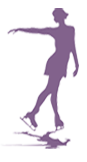
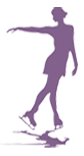
updates

diff --git a/public/stylesheets/main.css b/public/stylesheets/main.css
@@ -30,11 +30,13 @@ body {
 
 #header_container {
 	position: relative;
+	left: 0.3%;
+	top: 0.4%;
 	width: 100%;
-	height: 18%;
+	height: 20%;
 	background-color: blue;
-	/* background: url(../images/header_background.png); */
-	background-size: 100.45% 100%;
+	background: url(../images/header_background.png); 
+	background-size: 100% 100%;
 }
 
 #middle_container {
@@ -57,7 +59,8 @@ body {
 	position: relative;
 	border: 4px double black; 
 	top: 1%;
-	width: 98%;
+	left: 2.2%;
+	width: 95%;
 	height: 20%;
 }
 
@@ -66,13 +69,13 @@ body {
 	margin-left: 4%;
 	top: 1%;	
 	width: 95%;
-	height: 75%;
+	height: 49%;
 }
 
 .menu_item_container {
 	position: relative;
 	width: 100%;
-	height: 9%;
+	height: 12%;
 	margin-top: 4%;
 	background-color: #002d98;
 	border-radius: 30px; 
@@ -84,13 +87,34 @@ body {
 	margin-right: auto;
 	top: 6%;
 	width: 98%;
-	height: 88%;
+	height: 87%;
 	margin-top: 4%;
 	background: -webkit-linear-gradient(#ffffff, #d9c6d8, #b793b7, #a274a0); /* For Safari 5.1 to 6.0 */
   	background: -o-linear-gradient(#ffffff, #d9c6d8, #b793b7, #a274a0); /* For Opera 11.1 to 12.0 */
   	background: -moz-linear-gradient(#ffffff, #d9c6d8, #b793b7, #a274a0); /* For Firefox 3.6 to 15 */
   	background: linear-gradient(#ffffff, #d9c6d8, #b793b7, #a274a0); /* Standard syntax */
-	border-radius: 30px; 
+	border-radius: 30px;
+	text-align: center;
+}
+
+.menu_item a {
+	position: relative;
+	text-decoration: none;
+	color: blue;
+	font-family: "Verdana", Geneva, sans-serif;
+	font-style: italic;
+	font-size: large;
+	top: 15%;
+}
+
+#skater_man {
+	position: relative;
+	width: 90%;
+	height: 30%;
+	background-image: url(../images/skater_left.png);
+	background-repeat: no-repeat;
+	background-position: center center;
+	background-size: auto 100%;
 }
 
 #middle_center {
@@ -134,9 +158,29 @@ body {
 	height: 20%;
 }
 
+#skater_woman {
+	position: relative;
+	top: 4%;
+	width: 90%;
+	height: 30%;
+	background-image: url(../images/skater_right.png);
+	background-repeat: no-repeat;
+	background-position: center center;
+	background-size: auto 100%;
+}
+
+#adv3 {
+	position: relative;
+	border: 4px double black; 
+	top: 5%;
+	width: 90%;
+	height: 20%; 
+}
+
+
 #footer_container {
 	position: relative;
-	height: 5%;
+	height: 3%;
 	width: 100%;
 	background-color: #003399;
 }

diff --git a/app/views/main.scala.html b/app/views/main.scala.html
@@ -20,32 +20,41 @@
         			<div id="menu">
         				<div class="menu_item_container">
         					<div class="menu_item">
+        						<a href=".">О клубе</a>
         					</div>
         				</div>
         				<div class="menu_item_container">
         					<div class="menu_item">
+        						<a href=".">Новости</a>
         					</div>
         				</div>
         				<div class="menu_item_container">
         				    <div class="menu_item">
+        				    	<a href=".">Расписание</a>
         					</div>
         				</div>
         				<div class="menu_item_container">
         					<div class="menu_item">
+        						<a href=".">Фотогалерея</a>
         					</div>
         				</div>
         				<div class="menu_item_container">
         					<div class="menu_item">
+        						<a href=".">Видео</a>
         					</div>
         				</div>
         				<div class="menu_item_container">
         					<div class="menu_item">
+        						<a href=".">Контакты</a>
         					</div>
         				</div>
         				<div class="menu_item_container">
         					<div class="menu_item">
+        						<a href=".">Форум</a>
         					</div>
         				</div>
+        			</div>
+        			<div id="skater_man" class="center">
         			</div>
         		</div>
         		<div id="middle_center">
@@ -56,6 +65,8 @@
         			<div id="calendar" class="center">
         			</div>
         			<div id="adv2" class="center">
+        			</div>
+        			<div id="skater_woman" class="center">
         			</div>
         			<div id="adv3" class="center">
         			</div>
